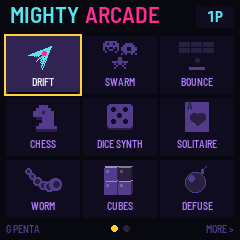
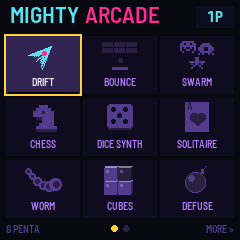
Menu: DRIFT, BOUNCE, SWARM, the two space games apart

diff --git a/app/app.c b/app/app.c
@@ -597,7 +597,7 @@ static void select_here(void)
  * in the middle with CHESS and SOLITAIRE, WORM, CUBES and DEFUSE below. Page 2, the rest, DROP in its middle and POOL
  * beside it (Nick, 17 Nov 2026) */
 enum { M_MENU,
-       M_DRIFT, M_SWARM, M_BRICK,        /* page 1 (DRIFT first, BOUNCE third: Nick, 19 Nov 2026) */
+       M_DRIFT, M_BRICK, M_SWARM,        /* page 1 (DRIFT, BOUNCE, SWARM: the two space games apart, Nick 19 Nov 2026) */
        M_CHESS, M_DICE, M_SOLI,
        M_SNAKE, M_CUBE, M_MINES,
        M_GOLF, M_PINBALL, M_BOUNCE,      /* page 2 */
@@ -606,7 +606,7 @@ enum { M_MENU,
        NMODE };
 static uint8_t help_on;                  /* EDIT's controls overlay is up (help_scene) */
 static const char *const MODE_NAME[NMODE] = {"MENU",
-                                             "DRIFT", "SWARM", "BOUNCE",
+                                             "DRIFT", "BOUNCE", "SWARM",
                                              "CHESS", "DICE SYNTH", "SOLITAIRE",
                                              "WORM", "CUBES", "DEFUSE",
                                              "GOLF", "PINBALL", "DODGE",

diff --git a/README.md b/README.md
@@ -10,7 +10,7 @@ creatures you catch are the notes, a playhead plays them in time, and the drums 
 
 | Page 1 | | |
 | --- | --- | --- |
-| **DRIFT**: steer among rocks; a radar sweep plays them | **SWARM**: shoot the swarm; each catch lands in an eight-step loop | **BOUNCE**: break the wall; a playhead plays its columns |
+| **DRIFT**: steer among rocks; a radar sweep plays them | **BOUNCE**: break the wall; a playhead plays its columns | **SWARM**: shoot the swarm; each catch lands in an eight-step loop |
 | **CHESS**: against the computer or a friend; the board is the score | **DICE SYNTH**: roll a new FM sound and play it on the keys | **SOLITAIRE**: Klondike; the columns are an ambient sequencer |
 | **WORM**: a worm on the beat, playing every note it has eaten | **CUBES**: pop colours and free the note gems | **DEFUSE**: clear the field; the numbers you open are the tune |
 
